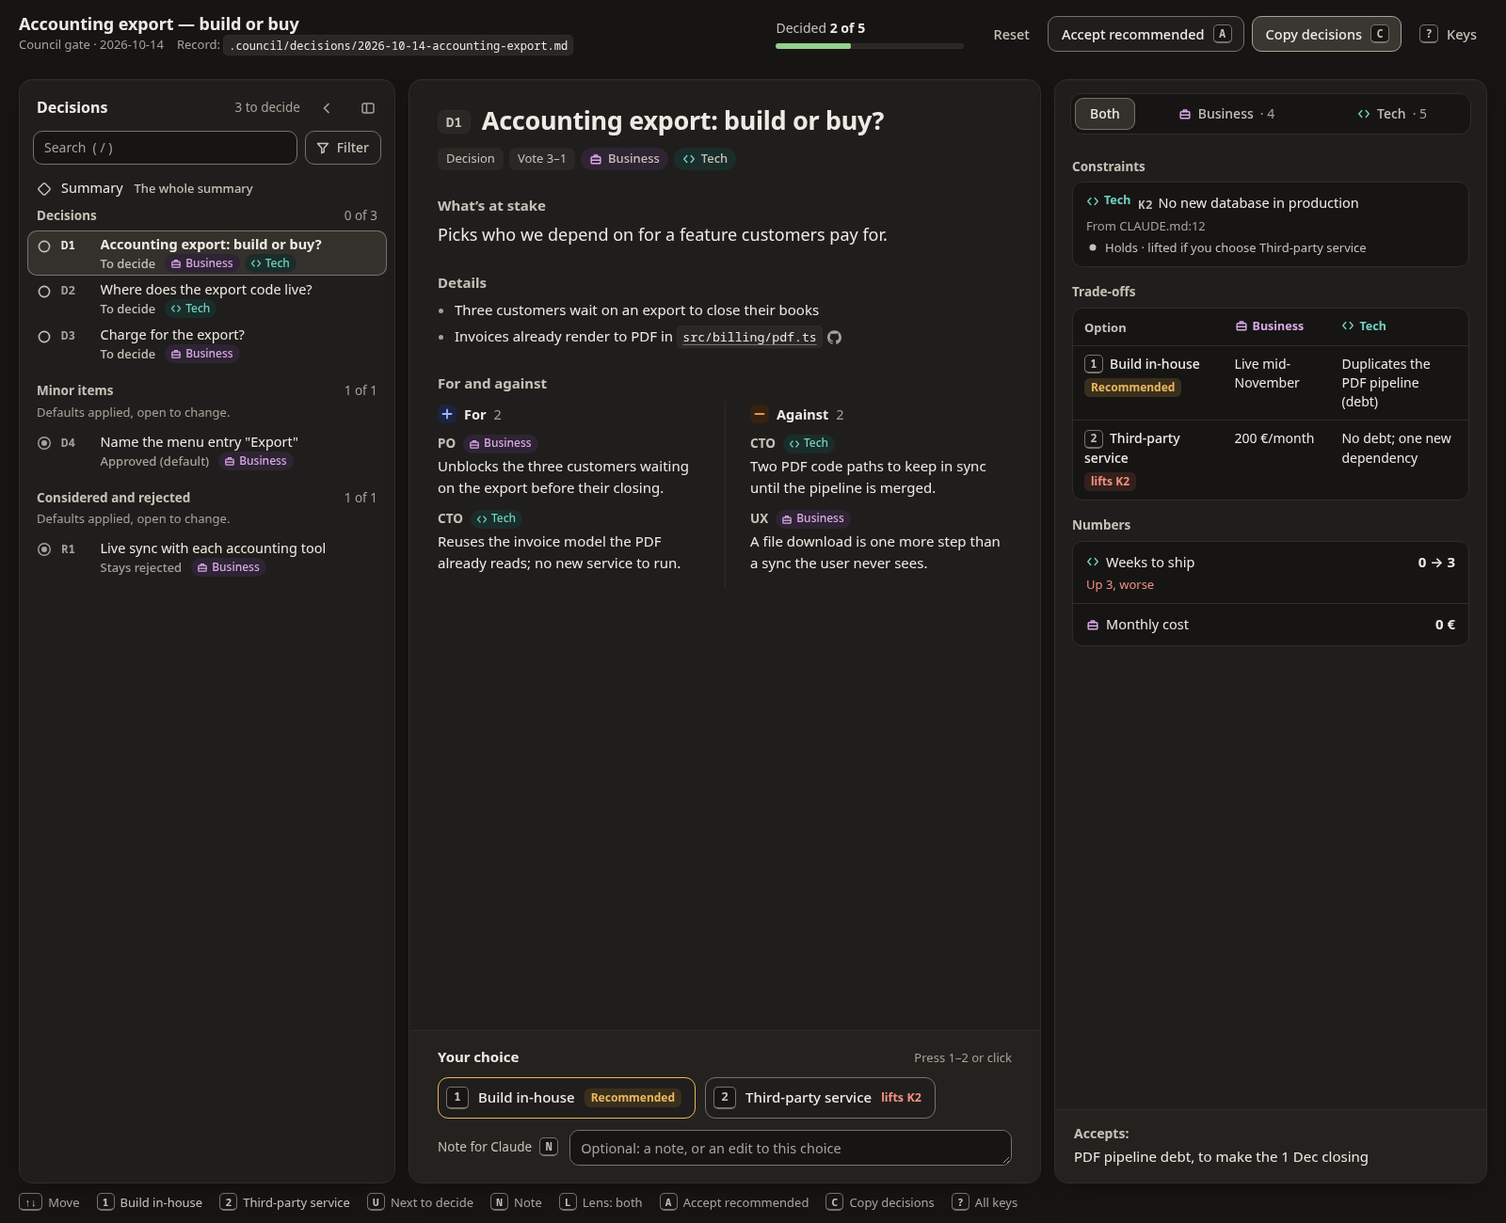
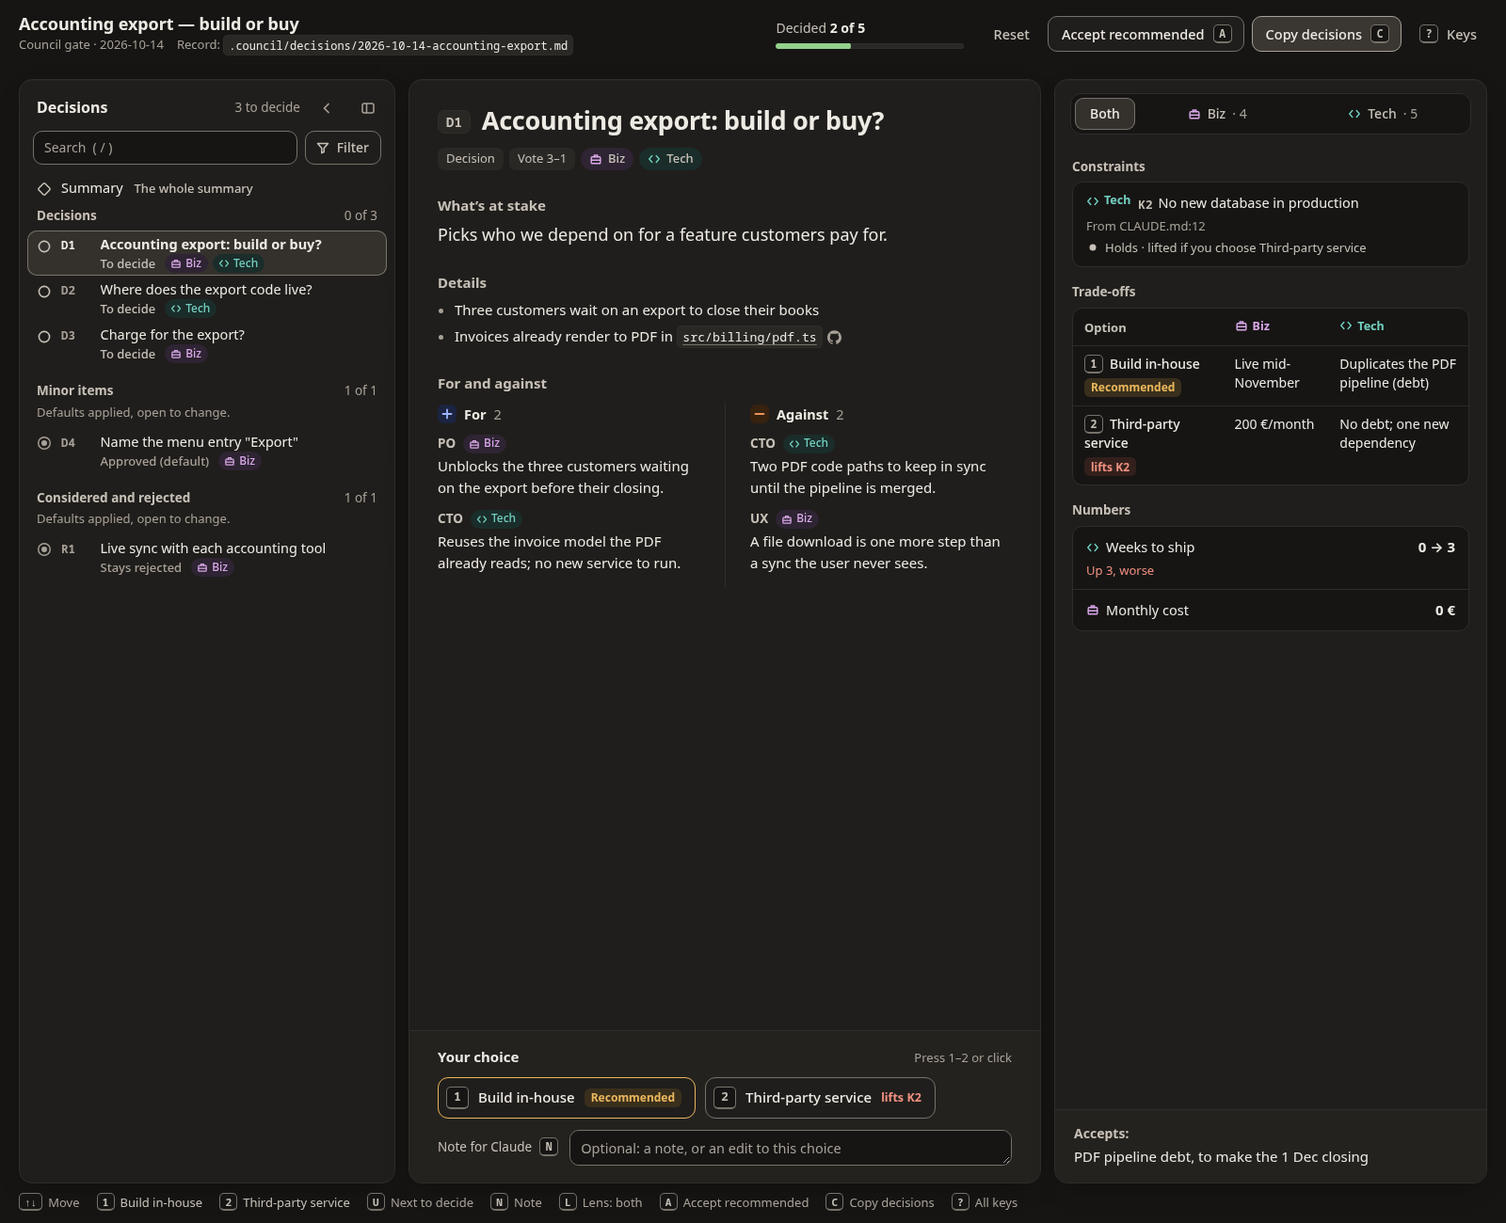
Biz, not Business (0.16.2)
- The page labels the business lens "Biz": lens marks, the
  Both | Biz | Tech switch, the trade-off column, the Filter menu and
  the shortcut list. The JSON key stays `business`, so existing gates
  render unchanged.
- contract.md, DESIGN.md, README.md and CHANGELOG.md say so. Examples
  re-rendered (template only); docs/council-gate.png retaken, the only
  screenshot with lenses. 165 tests pass.

diff --git a/examples/council-gate/export.html b/examples/council-gate/export.html
@@ -791,7 +791,7 @@ dialog.zoom p:empty { display: none; }
 
   // Lens marks: a drawn icon and its name, the same on the list, the card, the switch, the filter and the constraints.
   // A briefcase for business, brackets for tech.
-  var LENS_NAME = { business: 'Business', tech: 'Tech' };
+  var LENS_NAME = { business: 'Biz', tech: 'Tech' };
   var LENS_PATHS = {
     business: ['M3.5 5.5h9a1 1 0 0 1 1 1v6a1 1 0 0 1-1 1h-9a1 1 0 0 1-1-1v-6a1 1 0 0 1 1-1z', 'M6 5.5v-2h4v2', 'M2.5 9.5h11'],
     tech: ['M5.5 4L2 8l3.5 4', 'M10.5 4L14 8l-3.5 4']
@@ -948,7 +948,7 @@ dialog.zoom p:empty { display: none; }
   var statusPills = pills('Status', 'status', [['all', 'Any status'], ['open', 'Undecided'], ['done', 'Decided'], ['note', 'With note']]);
   fgroup('Status', statusPills);
   // Lens: hide the cards that don't concern it, and turn both panes to it.
-  var lensPills = pills('Lens', 'lens', [['all', 'Any lens'], ['business', 'Business'], ['tech', 'Tech']], function (l) { setLens(l === 'all' ? 'both' : l); });
+  var lensPills = pills('Lens', 'lens', [['all', 'Any lens'], ['business', 'Biz'], ['tech', 'Tech']], function (l) { setLens(l === 'all' ? 'both' : l); });
   [].forEach.call(lensPills.children, function (b) { if (LENS_PATHS[b.dataset.v]) b.insertBefore(lensIcon(b.dataset.v), b.firstChild); });
   if (lensed) fgroup('Lens', lensPills);
   var tags = [];
@@ -1077,7 +1077,7 @@ dialog.zoom p:empty { display: none; }
     });
     return s;
   }
-  // The lens is one view for both panes: Both, Business only, Tech only. Hidden arguments are counted, never silent.
+  // The lens is one view for both panes: Both, Biz only, Tech only. Hidden arguments are counted, never silent.
   var lensView = 'both';
   function setLens(l) {
     lensView = l;
@@ -1567,8 +1567,8 @@ dialog.zoom p:empty { display: none; }
     ['<kbd>↓</kbd> <kbd>↑</kbd> &nbsp;<kbd>→</kbd> <kbd>←</kbd>', 'Next / previous card (also <kbd>j</kbd> / <kbd>k</kbd>)'],
     ['<kbd>u</kbd>', 'Next card still to decide'],
     ['<kbd>z</kbd>', 'The full summary, and back to the card'],
-    ['<kbd>l</kbd>', 'Lens for both panes: both, business only, tech only'],
-    ['<kbd>b</kbd> / <kbd>t</kbd>', 'Business / tech lens (again for both)'],
+    ['<kbd>l</kbd>', 'Lens for both panes: both, biz only, tech only'],
+    ['<kbd>b</kbd> / <kbd>t</kbd>', 'Biz / tech lens (again for both)'],
     ['<kbd>/</kbd>', 'Search; <kbd>Enter</kbd> goes to the first result'],
     ['<kbd>[</kbd>', 'The list: narrow to a rail, hide, show again'],
     ['', 'Decide'],

diff --git a/examples/refactor-gate/invoice.html b/examples/refactor-gate/invoice.html
@@ -791,7 +791,7 @@ dialog.zoom p:empty { display: none; }
 
   // Lens marks: a drawn icon and its name, the same on the list, the card, the switch, the filter and the constraints.
   // A briefcase for business, brackets for tech.
-  var LENS_NAME = { business: 'Business', tech: 'Tech' };
+  var LENS_NAME = { business: 'Biz', tech: 'Tech' };
   var LENS_PATHS = {
     business: ['M3.5 5.5h9a1 1 0 0 1 1 1v6a1 1 0 0 1-1 1h-9a1 1 0 0 1-1-1v-6a1 1 0 0 1 1-1z', 'M6 5.5v-2h4v2', 'M2.5 9.5h11'],
     tech: ['M5.5 4L2 8l3.5 4', 'M10.5 4L14 8l-3.5 4']
@@ -948,7 +948,7 @@ dialog.zoom p:empty { display: none; }
   var statusPills = pills('Status', 'status', [['all', 'Any status'], ['open', 'Undecided'], ['done', 'Decided'], ['note', 'With note']]);
   fgroup('Status', statusPills);
   // Lens: hide the cards that don't concern it, and turn both panes to it.
-  var lensPills = pills('Lens', 'lens', [['all', 'Any lens'], ['business', 'Business'], ['tech', 'Tech']], function (l) { setLens(l === 'all' ? 'both' : l); });
+  var lensPills = pills('Lens', 'lens', [['all', 'Any lens'], ['business', 'Biz'], ['tech', 'Tech']], function (l) { setLens(l === 'all' ? 'both' : l); });
   [].forEach.call(lensPills.children, function (b) { if (LENS_PATHS[b.dataset.v]) b.insertBefore(lensIcon(b.dataset.v), b.firstChild); });
   if (lensed) fgroup('Lens', lensPills);
   var tags = [];
@@ -1077,7 +1077,7 @@ dialog.zoom p:empty { display: none; }
     });
     return s;
   }
-  // The lens is one view for both panes: Both, Business only, Tech only. Hidden arguments are counted, never silent.
+  // The lens is one view for both panes: Both, Biz only, Tech only. Hidden arguments are counted, never silent.
   var lensView = 'both';
   function setLens(l) {
     lensView = l;
@@ -1567,8 +1567,8 @@ dialog.zoom p:empty { display: none; }
     ['<kbd>↓</kbd> <kbd>↑</kbd> &nbsp;<kbd>→</kbd> <kbd>←</kbd>', 'Next / previous card (also <kbd>j</kbd> / <kbd>k</kbd>)'],
     ['<kbd>u</kbd>', 'Next card still to decide'],
     ['<kbd>z</kbd>', 'The full summary, and back to the card'],
-    ['<kbd>l</kbd>', 'Lens for both panes: both, business only, tech only'],
-    ['<kbd>b</kbd> / <kbd>t</kbd>', 'Business / tech lens (again for both)'],
+    ['<kbd>l</kbd>', 'Lens for both panes: both, biz only, tech only'],
+    ['<kbd>b</kbd> / <kbd>t</kbd>', 'Biz / tech lens (again for both)'],
     ['<kbd>/</kbd>', 'Search; <kbd>Enter</kbd> goes to the first result'],
     ['<kbd>[</kbd>', 'The list: narrow to a rail, hide, show again'],
     ['', 'Decide'],

diff --git a/examples/review-gate/refund.html b/examples/review-gate/refund.html
@@ -791,7 +791,7 @@ dialog.zoom p:empty { display: none; }
 
   // Lens marks: a drawn icon and its name, the same on the list, the card, the switch, the filter and the constraints.
   // A briefcase for business, brackets for tech.
-  var LENS_NAME = { business: 'Business', tech: 'Tech' };
+  var LENS_NAME = { business: 'Biz', tech: 'Tech' };
   var LENS_PATHS = {
     business: ['M3.5 5.5h9a1 1 0 0 1 1 1v6a1 1 0 0 1-1 1h-9a1 1 0 0 1-1-1v-6a1 1 0 0 1 1-1z', 'M6 5.5v-2h4v2', 'M2.5 9.5h11'],
     tech: ['M5.5 4L2 8l3.5 4', 'M10.5 4L14 8l-3.5 4']
@@ -948,7 +948,7 @@ dialog.zoom p:empty { display: none; }
   var statusPills = pills('Status', 'status', [['all', 'Any status'], ['open', 'Undecided'], ['done', 'Decided'], ['note', 'With note']]);
   fgroup('Status', statusPills);
   // Lens: hide the cards that don't concern it, and turn both panes to it.
-  var lensPills = pills('Lens', 'lens', [['all', 'Any lens'], ['business', 'Business'], ['tech', 'Tech']], function (l) { setLens(l === 'all' ? 'both' : l); });
+  var lensPills = pills('Lens', 'lens', [['all', 'Any lens'], ['business', 'Biz'], ['tech', 'Tech']], function (l) { setLens(l === 'all' ? 'both' : l); });
   [].forEach.call(lensPills.children, function (b) { if (LENS_PATHS[b.dataset.v]) b.insertBefore(lensIcon(b.dataset.v), b.firstChild); });
   if (lensed) fgroup('Lens', lensPills);
   var tags = [];
@@ -1077,7 +1077,7 @@ dialog.zoom p:empty { display: none; }
     });
     return s;
   }
-  // The lens is one view for both panes: Both, Business only, Tech only. Hidden arguments are counted, never silent.
+  // The lens is one view for both panes: Both, Biz only, Tech only. Hidden arguments are counted, never silent.
   var lensView = 'both';
   function setLens(l) {
     lensView = l;
@@ -1567,8 +1567,8 @@ dialog.zoom p:empty { display: none; }
     ['<kbd>↓</kbd> <kbd>↑</kbd> &nbsp;<kbd>→</kbd> <kbd>←</kbd>', 'Next / previous card (also <kbd>j</kbd> / <kbd>k</kbd>)'],
     ['<kbd>u</kbd>', 'Next card still to decide'],
     ['<kbd>z</kbd>', 'The full summary, and back to the card'],
-    ['<kbd>l</kbd>', 'Lens for both panes: both, business only, tech only'],
-    ['<kbd>b</kbd> / <kbd>t</kbd>', 'Business / tech lens (again for both)'],
+    ['<kbd>l</kbd>', 'Lens for both panes: both, biz only, tech only'],
+    ['<kbd>b</kbd> / <kbd>t</kbd>', 'Biz / tech lens (again for both)'],
     ['<kbd>/</kbd>', 'Search; <kbd>Enter</kbd> goes to the first result'],
     ['<kbd>[</kbd>', 'The list: narrow to a rail, hide, show again'],
     ['', 'Decide'],

diff --git a/examples/review-gate/refund.share.html b/examples/review-gate/refund.share.html
@@ -791,7 +791,7 @@ dialog.zoom p:empty { display: none; }
 
   // Lens marks: a drawn icon and its name, the same on the list, the card, the switch, the filter and the constraints.
   // A briefcase for business, brackets for tech.
-  var LENS_NAME = { business: 'Business', tech: 'Tech' };
+  var LENS_NAME = { business: 'Biz', tech: 'Tech' };
   var LENS_PATHS = {
     business: ['M3.5 5.5h9a1 1 0 0 1 1 1v6a1 1 0 0 1-1 1h-9a1 1 0 0 1-1-1v-6a1 1 0 0 1 1-1z', 'M6 5.5v-2h4v2', 'M2.5 9.5h11'],
     tech: ['M5.5 4L2 8l3.5 4', 'M10.5 4L14 8l-3.5 4']
@@ -948,7 +948,7 @@ dialog.zoom p:empty { display: none; }
   var statusPills = pills('Status', 'status', [['all', 'Any status'], ['open', 'Undecided'], ['done', 'Decided'], ['note', 'With note']]);
   fgroup('Status', statusPills);
   // Lens: hide the cards that don't concern it, and turn both panes to it.
-  var lensPills = pills('Lens', 'lens', [['all', 'Any lens'], ['business', 'Business'], ['tech', 'Tech']], function (l) { setLens(l === 'all' ? 'both' : l); });
+  var lensPills = pills('Lens', 'lens', [['all', 'Any lens'], ['business', 'Biz'], ['tech', 'Tech']], function (l) { setLens(l === 'all' ? 'both' : l); });
   [].forEach.call(lensPills.children, function (b) { if (LENS_PATHS[b.dataset.v]) b.insertBefore(lensIcon(b.dataset.v), b.firstChild); });
   if (lensed) fgroup('Lens', lensPills);
   var tags = [];
@@ -1077,7 +1077,7 @@ dialog.zoom p:empty { display: none; }
     });
     return s;
   }
-  // The lens is one view for both panes: Both, Business only, Tech only. Hidden arguments are counted, never silent.
+  // The lens is one view for both panes: Both, Biz only, Tech only. Hidden arguments are counted, never silent.
   var lensView = 'both';
   function setLens(l) {
     lensView = l;
@@ -1567,8 +1567,8 @@ dialog.zoom p:empty { display: none; }
     ['<kbd>↓</kbd> <kbd>↑</kbd> &nbsp;<kbd>→</kbd> <kbd>←</kbd>', 'Next / previous card (also <kbd>j</kbd> / <kbd>k</kbd>)'],
     ['<kbd>u</kbd>', 'Next card still to decide'],
     ['<kbd>z</kbd>', 'The full summary, and back to the card'],
-    ['<kbd>l</kbd>', 'Lens for both panes: both, business only, tech only'],
-    ['<kbd>b</kbd> / <kbd>t</kbd>', 'Business / tech lens (again for both)'],
+    ['<kbd>l</kbd>', 'Lens for both panes: both, biz only, tech only'],
+    ['<kbd>b</kbd> / <kbd>t</kbd>', 'Biz / tech lens (again for both)'],
     ['<kbd>/</kbd>', 'Search; <kbd>Enter</kbd> goes to the first result'],
     ['<kbd>[</kbd>', 'The list: narrow to a rail, hide, show again'],
     ['', 'Decide'],

diff --git a/skills/team-ceo-view/template.html b/skills/team-ceo-view/template.html
@@ -791,7 +791,7 @@ dialog.zoom p:empty { display: none; }
 
   // Lens marks: a drawn icon and its name, the same on the list, the card, the switch, the filter and the constraints.
   // A briefcase for business, brackets for tech.
-  var LENS_NAME = { business: 'Business', tech: 'Tech' };
+  var LENS_NAME = { business: 'Biz', tech: 'Tech' };
   var LENS_PATHS = {
     business: ['M3.5 5.5h9a1 1 0 0 1 1 1v6a1 1 0 0 1-1 1h-9a1 1 0 0 1-1-1v-6a1 1 0 0 1 1-1z', 'M6 5.5v-2h4v2', 'M2.5 9.5h11'],
     tech: ['M5.5 4L2 8l3.5 4', 'M10.5 4L14 8l-3.5 4']
@@ -948,7 +948,7 @@ dialog.zoom p:empty { display: none; }
   var statusPills = pills('Status', 'status', [['all', 'Any status'], ['open', 'Undecided'], ['done', 'Decided'], ['note', 'With note']]);
   fgroup('Status', statusPills);
   // Lens: hide the cards that don't concern it, and turn both panes to it.
-  var lensPills = pills('Lens', 'lens', [['all', 'Any lens'], ['business', 'Business'], ['tech', 'Tech']], function (l) { setLens(l === 'all' ? 'both' : l); });
+  var lensPills = pills('Lens', 'lens', [['all', 'Any lens'], ['business', 'Biz'], ['tech', 'Tech']], function (l) { setLens(l === 'all' ? 'both' : l); });
   [].forEach.call(lensPills.children, function (b) { if (LENS_PATHS[b.dataset.v]) b.insertBefore(lensIcon(b.dataset.v), b.firstChild); });
   if (lensed) fgroup('Lens', lensPills);
   var tags = [];
@@ -1077,7 +1077,7 @@ dialog.zoom p:empty { display: none; }
     });
     return s;
   }
-  // The lens is one view for both panes: Both, Business only, Tech only. Hidden arguments are counted, never silent.
+  // The lens is one view for both panes: Both, Biz only, Tech only. Hidden arguments are counted, never silent.
   var lensView = 'both';
   function setLens(l) {
     lensView = l;
@@ -1567,8 +1567,8 @@ dialog.zoom p:empty { display: none; }
     ['<kbd>↓</kbd> <kbd>↑</kbd> &nbsp;<kbd>→</kbd> <kbd>←</kbd>', 'Next / previous card (also <kbd>j</kbd> / <kbd>k</kbd>)'],
     ['<kbd>u</kbd>', 'Next card still to decide'],
     ['<kbd>z</kbd>', 'The full summary, and back to the card'],
-    ['<kbd>l</kbd>', 'Lens for both panes: both, business only, tech only'],
-    ['<kbd>b</kbd> / <kbd>t</kbd>', 'Business / tech lens (again for both)'],
+    ['<kbd>l</kbd>', 'Lens for both panes: both, biz only, tech only'],
+    ['<kbd>b</kbd> / <kbd>t</kbd>', 'Biz / tech lens (again for both)'],
     ['<kbd>/</kbd>', 'Search; <kbd>Enter</kbd> goes to the first result'],
     ['<kbd>[</kbd>', 'The list: narrow to a rail, hide, show again'],
     ['', 'Decide'],

diff --git a/README.md b/README.md
@@ -14,7 +14,7 @@
 | [`team-kickoff`](skills/team-kickoff/SKILL.md) | New project: vision → scan → council → brief, profile, `CLAUDE.md`. |
 | [`team-refactor`](skills/team-refactor/SKILL.md) | Structure review by 5 blind lenses, **Minimalist** gate. One behavior-preserving step per commit, behind characterization tests. |
 | [`team-review`](skills/team-review/SKILL.md) | Diff or module review by 4 blind lenses; a **Verifier** refutes each finding. Output: a forge review or test-first fixes. |
-| [`team-ceo-view`](skills/team-ceo-view/SKILL.md) | Gate → one HTML page: a three-pane console: the list of cards with rails for what refines or follows what, the current card (arguments tagged Business or Tech, your choice), and its evidence (trade-offs, numbers, diff, figures after [diagram-design](https://github.com/cathrynlavery/diagram-design)); what agents settled alone, reopenable. **Send to Claude** returns your answers; **Share** (reviews) hands the gate to the branch owner. |
+| [`team-ceo-view`](skills/team-ceo-view/SKILL.md) | Gate → one HTML page: a three-pane console: the list of cards with rails for what refines or follows what, the current card (arguments tagged Biz or Tech, your choice), and its evidence (trade-offs, numbers, diff, figures after [diagram-design](https://github.com/cathrynlavery/diagram-design)); what agents settled alone, reopenable. **Send to Claude** returns your answers; **Share** (reviews) hands the gate to the branch owner. |
 | [`team-protocol`](skills/team-protocol/SKILL.md) | Shared rules every skill loads: dispatch, agent contract, bridge, scope, handoff, execution. |
 
 ## Which skill?
@@ -114,9 +114,9 @@ node skills/team-ceo-view/render.js examples/refactor-gate/invoice.ceo.json --se
 node skills/team-ceo-view/render.js examples/refactor-gate/invoice.ceo.json --accept-recommended
 ```
 
-[`examples/council-gate/`](examples/council-gate) holds a council gate with both lenses: constraints on cards (never on the page), an option that breaks one, the bridge, and the lens switch. D1 weighs both lenses; its evidence pane switches between Both, Business and Tech (`l`, `b`, `t`). D2 is tech only and D3 business only, so the Filter menu can hide them.
+[`examples/council-gate/`](examples/council-gate) holds a council gate with both lenses: constraints on cards (never on the page), an option that breaks one, the bridge, and the lens switch. D1 weighs both lenses; its evidence pane switches between Both, Biz and Tech (`l`, `b`, `t`). D2 is tech only and D3 business only, so the Filter menu can hide them.
 
-![A council gate: card D1 current with Business and Tech marks, its arguments tagged by lens, and in the evidence pane the Both | Business | Tech switch, its constraint, the trade-off table with the recommended row, and the option that lifts K2](docs/council-gate.png)
+![A council gate: card D1 current with Biz and Tech marks, its arguments tagged by lens, and in the evidence pane the Both | Biz | Tech switch, its constraint, the trade-off table with the recommended row, and the option that lifts K2](docs/council-gate.png)
 
 [`examples/review-gate/`](examples/review-gate) holds a review gate: `refund.ceo.json`, its page, and what Share makes from it. Share renders it as a standalone file with **Copy prompt** in place of Send, or with `--artifact` for a claude.ai Artifact.
 
@@ -132,7 +132,7 @@ Or hand it over as a pending review on the pull request, which you submit yourse
 node skills/team-ceo-view/render.js examples/review-gate/refund.ceo.json --share --preset=examples/review-gate/refund.share.txt --review=github --head=<sha> --diff=examples/review-gate/refund.diff
 ```
 
-Keyboard: `←`/`→` `↑`/`↓` (or `j`/`k`) move between cards, `1`–`9` choose an option, `Tab` cycles the options, `Enter` chooses, `u` jumps to the next card to decide, `r` takes the recommended option, `n` writes a note, `l` / `b` / `t` switch the evidence between both lenses, Business and Tech, `/` searches, `[` narrows or hides the list, `z` opens the full summary, `a` accepts every recommendation, `s` sends (served) and `c` copies, and `?` lists every shortcut.
+Keyboard: `←`/`→` `↑`/`↓` (or `j`/`k`) move between cards, `1`–`9` choose an option, `Tab` cycles the options, `Enter` chooses, `u` jumps to the next card to decide, `r` takes the recommended option, `n` writes a note, `l` / `b` / `t` switch the evidence between both lenses, Biz and Tech, `/` searches, `[` narrows or hides the list, `z` opens the full summary, `a` accepts every recommendation, `s` sends (served) and `c` copies, and `?` lists every shortcut.
 
 ## Changelog
 

diff --git a/skills/team-ceo-view/contract.md b/skills/team-ceo-view/contract.md
@@ -155,7 +155,7 @@ On council, plan and kickoff gates; the calling skill's mapping says what fills 
 - `accepts`: one line, ≤ 160 characters: what the recommended option costs. Required on an item whose options carry `tradeoff` and one is recommended, unless that option carries its own. `options[].accepts` (or a side's): what that option costs, shown while it is chosen or picked; an option without one shows the recommended option's, labelled as such.
 - `title`, `why`, `detail` and `options` stay shared, above the bridge.
 
-**On the page**, a card shows its bridge (its constraints, the options' trade-offs side by side, and *Accepts*) in the evidence pane (right), as one trade-off table with Business and Tech columns. Each argument in the centre pane is tagged Business or Tech. A *Both | Business | Tech* switch narrows the evidence pane, and `l` cycles it (`b` / `t` pick a lens). The list pane's lens marks show which lens each card concerns, and its Filter menu hides the cards that concern only the other lens (a card with no lens stays).
+**On the page**, a card shows its bridge (its constraints, the options' trade-offs side by side, and *Accepts*) in the evidence pane (right), as one trade-off table with Biz and Tech columns. Each argument in the centre pane is tagged Biz or Tech. A *Both | Biz | Tech* switch narrows the evidence pane, and `l` cycles it (`b` / `t` pick a lens). The list pane's lens marks show which lens each card concerns, and its Filter menu hides the cards that concern only the other lens (a card with no lens stays).
 
 **The renderer rejects** a `lens` other than `business` or `tech`; an entry of a lensed item with no lens; a constraint missing a field, with an unknown status, or an id whose copies differ, or the same id twice on one card; a page-level `constraints`; a `violates` id not on its item; a `tradeoff` with neither key, another key, or a line over 80 characters; a missing or over-long `accepts`; and a recommended or default option that violates any constraint: only the CEO lifts one, and auto-accept takes the recommendations.
 

diff --git a/DESIGN.md b/DESIGN.md
@@ -231,7 +231,7 @@ A warm brown-grey neutral ladder with five small semantic hues, each lifted to p
 ### Tertiary
 - **For Blue** (pro, with pro-bg fill): the For sign. Arguments never take the green and red of a code diff.
 - **Against Copper** (con, with con-bg fill): the Against sign. Copper, not amber: amber stays "Recommended".
-- **Business Violet** (biz, with biz-bg fill): the Business lens mark, tag and column label.
+- **Business Violet** (biz, with biz-bg fill): the business lens mark, tag and column label ("Biz").
 - **Tech Teal** (tech, with tech-bg fill): the Tech lens mark, tag and column label. Teal, so it never reads as For Blue.
 
 ### Neutral
@@ -333,7 +333,7 @@ The decision itself, pinned in the foot bar of the centre pane.
 
 ### Chips, tags and lens marks
 - **Tag:** raised fill, ink-2, 7px corners, 24px; blocker variant red on red-bg, warn variant an inset line ring.
-- **Lens mark:** full-round, icon plus "Business" or "Tech" in its hue on its deep tint.
+- **Lens mark:** full-round, icon plus "Biz" or "Tech" in its hue on its deep tint.
 - **Filter pill:** panel fill with edge border; pressed state takes the cursor fill and an ink-3 border.
 
 ### Inputs / Fields
@@ -350,7 +350,7 @@ The decision itself, pinned in the foot bar of the centre pane.
 - **Rails:** drawn to the left of the rows; the cursor's family lights to rail-lit.
 
 ### Lens switch
-A segmented control (Both | Business | Tech) recessed in ground with a 4px inner padding; the selected segment takes the cursor fill and an inset line ring. Counts sit beside each name in ink-3.
+A segmented control (Both | Biz | Tech) recessed in ground with a 4px inner padding; the selected segment takes the cursor fill and an inset line ring. Counts sit beside each name in ink-3.
 
 ### Evidence boxes
 Recessed ground wells with a 1px edge and 11px corners holding constraints, the trade-off table, metrics, code and location; rows inside divide with edge hairlines. Code diffs tint whole lines green or red.

diff --git a/CHANGELOG.md b/CHANGELOG.md
@@ -2,6 +2,10 @@
 
 What each version of team-skills changed, newest first.
 
+## 0.16.2 — 2026-10-23
+
+- **Biz, not Business.** The page labels the business lens *Biz*: the lens marks, the *Both | Biz | Tech* switch, the trade-off column, the Filter menu and the shortcut list. The JSON key stays `business`, so existing gates render unchanged.
+
 ## 0.16.1 — 2026-10-23
 
 - **List marks on the first line.** A row's status mark, and the rail elbow that meets it, sat 5px under the title, level with neither line. It is now centred on the lowercase of the first line, where the eye reads it, in whatever font the reader's `system-ui` resolves to: the page measures it (baseline plus half the x-height) when the list lays out, and again when it is shown, narrowed to a rail (where the id is the line) or widened.
